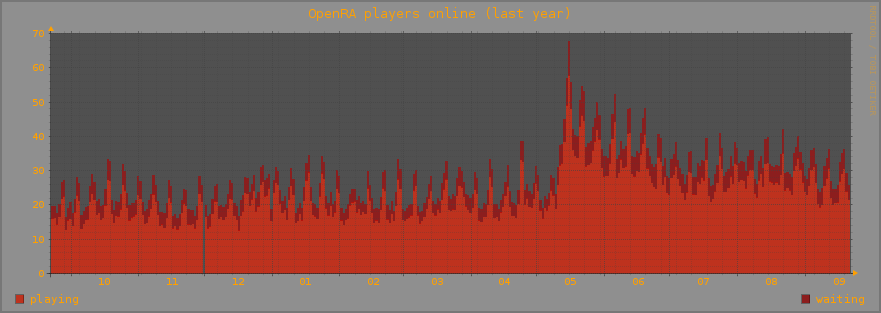
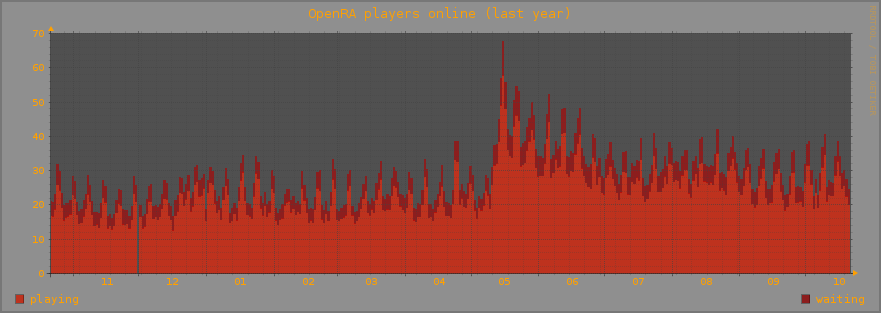
update db

diff --git a/log/redraw.ts b/log/redraw.ts
@@ -1,1 +1,1 @@
-2016-09-21 08:34:06
+2016-10-21 08:05:06
